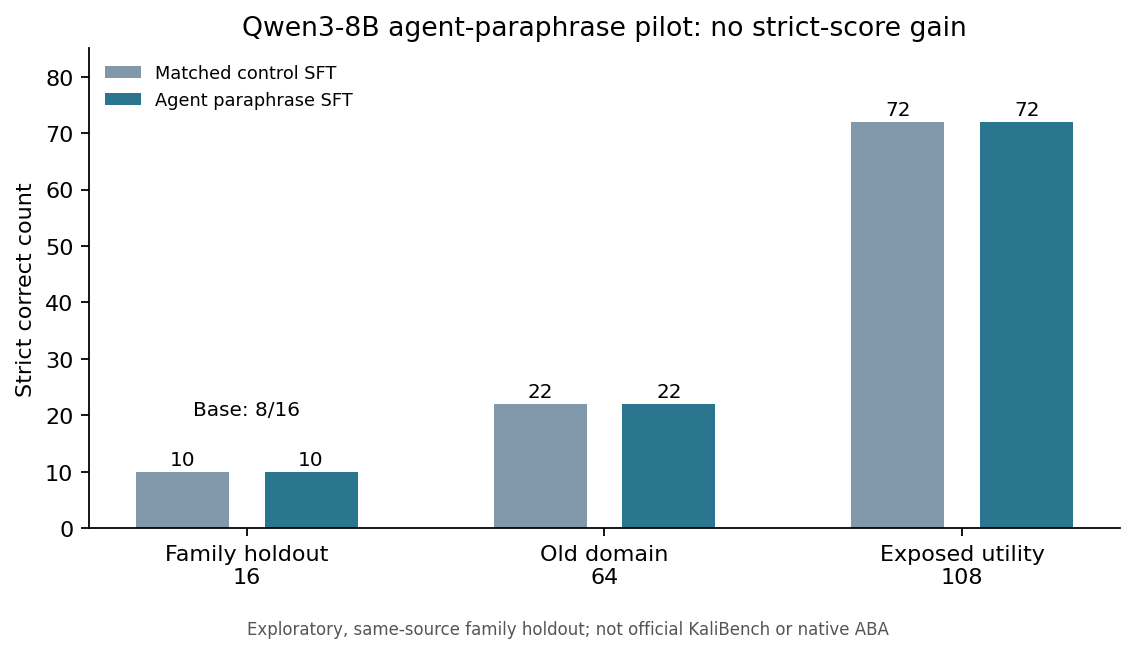
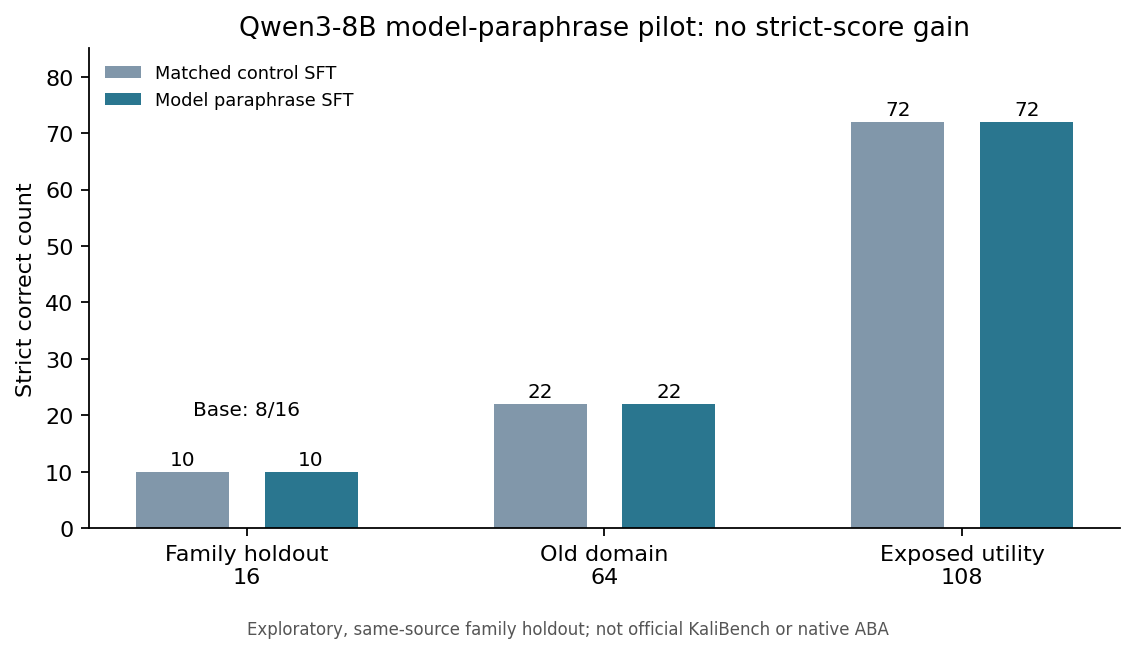
Clarify hosted model pilot scope

Changed region(s): [[0.2157, 0.0306, 0.8627, 0.0612], [0.1232, 0.1223, 0.2773, 0.1835], [0.2773, 0.1223, 0.3081, 0.1529]]

diff --git a/scripts/plot-kali-qwen-agent-data680-public.py b/scripts/plot-kali-qwen-agent-data680-public.py
@@ -27,7 +27,7 @@ def main():
     fig, ax = plt.subplots(figsize=(7.2, 4.1), dpi=160)
     width = 0.26
     left = ax.bar(x - 0.18, control, width, label="Matched control SFT", color="#8197aa")
-    right = ax.bar(x + 0.18, treatment, width, label="Agent paraphrase SFT", color="#2a768f")
+    right = ax.bar(x + 0.18, treatment, width, label="Model paraphrase SFT", color="#2a768f")
     for bars in (left, right):
         for bar in bars:
             ax.annotate(f"{bar.get_height():.0f}", (bar.get_x() + bar.get_width() / 2, bar.get_height()),
@@ -36,7 +36,7 @@ def main():
     ax.set_xticks(x, [label for label, _ in groups])
     ax.set_ylim(0, 85)
     ax.set_ylabel("Strict correct count")
-    ax.set_title("Qwen3-8B agent-paraphrase pilot: no strict-score gain")
+    ax.set_title("Qwen3-8B model-paraphrase pilot: no strict-score gain")
     ax.legend(loc="upper left", frameon=False, fontsize=8)
     ax.spines[["top", "right"]].set_visible(False)
     fig.text(0.5, 0.02, "Exploratory, same-source family holdout; not official KaliBench or native ABA",

diff --git a/README.md b/README.md
@@ -2,9 +2,9 @@
 
 Research code and traceable experiment summaries for adapting open-weight language models to cybersecurity tasks. Minhao's current experiment is **KaliBench**; AthenaBench preparation and an eventual CyberGym transfer are separate work.
 
-## November 2, 2026 — hosted-agent TRAIN paraphrase pilot
+## November 2, 2026 — hosted-model TRAIN paraphrase pilot
 
-A hosted agent proposed 64 paraphrases of 16 fixture-checked TRAIN seeds across eight CLI tools. After static and semantic-form screening, **42** were used in a matched 680-update Qwen3-8B SFT comparison. On 16 pre-frozen, same-source family-held-out questions, strict correctness was **8/16 base, 10/16 matched control, 10/16 agent-data treatment**; old DEV64 remained **22/64** for both SFT arms, and exposed utility108 remained **72/108**. Treatment reduced utility108 truncations from 6 to 1, but produced one truncation on the 16-question holdout. The predeclared primary gain gate failed, so the adapter was not promoted. A narrow **posthoc**, CPU-only synthetic-fixture check of six strict misses per arm found **4/6 control vs 5/6 treatment** functionally matched fixture output; it does not revise the frozen strict score. This is agent-assisted paraphrase data plus fixed SFT, **not native ABA automation or an official benchmark score**. Two bounded native ABA CPU VM starts were blocked by a LINSTOR volume-attach timeout before the controller ran; the VM is stopped. [Chinese report](docs/KALI_QWEN_AGENT_DATA680_ZH_2026-11-02.md) · [Main aggregate](results/kali-qwen-agent-data680-2026-11-02/aggregate.json) · [Posthoc fixture aggregate](results/kali-qwen-agent-data680-2026-11-02/semantic-posthoc.json).
+A hosted model proposed 64 paraphrases of 16 fixture-checked TRAIN seeds across eight CLI tools. After static and semantic-form screening, **42** were used in a matched 680-update Qwen3-8B SFT comparison. On 16 pre-frozen, same-source family-held-out questions, strict correctness was **8/16 base, 10/16 matched control, 10/16 model-paraphrase treatment**; old DEV64 remained **22/64** for both SFT arms, and exposed utility108 remained **72/108**. Treatment reduced utility108 truncations from 6 to 1, but produced one truncation on the 16-question holdout. The predeclared primary gain gate failed, so the adapter was not promoted. A narrow **posthoc**, CPU-only synthetic-fixture check of six strict misses per arm found **4/6 control vs 5/6 treatment** functionally matched fixture output; it does not revise the frozen strict score. This is hosted-model paraphrase data plus fixed SFT, **not autonomous agent search, native ABA automation, or an official benchmark score**. Two bounded native ABA CPU VM starts were blocked by a LINSTOR volume-attach timeout before the controller ran; the VM is stopped. [Chinese report](docs/KALI_QWEN_AGENT_DATA680_ZH_2026-11-02.md) · [Main aggregate](results/kali-qwen-agent-data680-2026-11-02/aggregate.json) · [Posthoc fixture aggregate](results/kali-qwen-agent-data680-2026-11-02/semantic-posthoc.json).
 
 ![Matched 680-update agent-data pilot](results/kali-qwen-agent-data680-2026-11-02/strict-counts.png)
 
